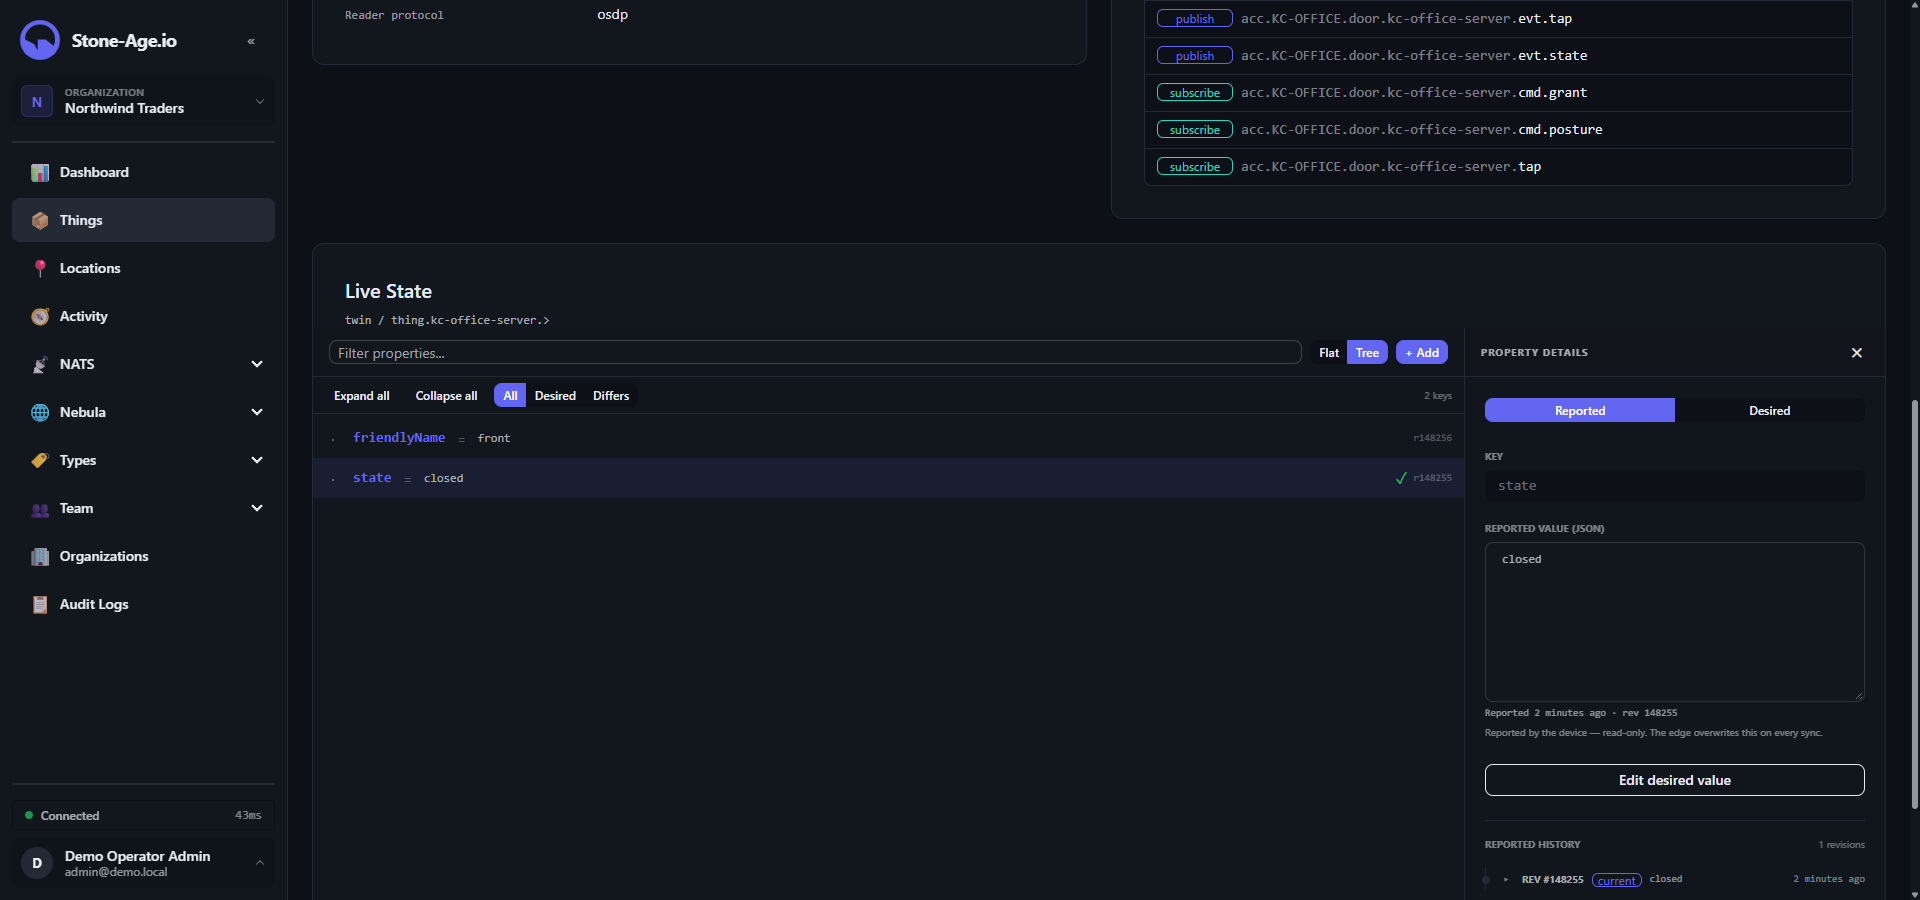
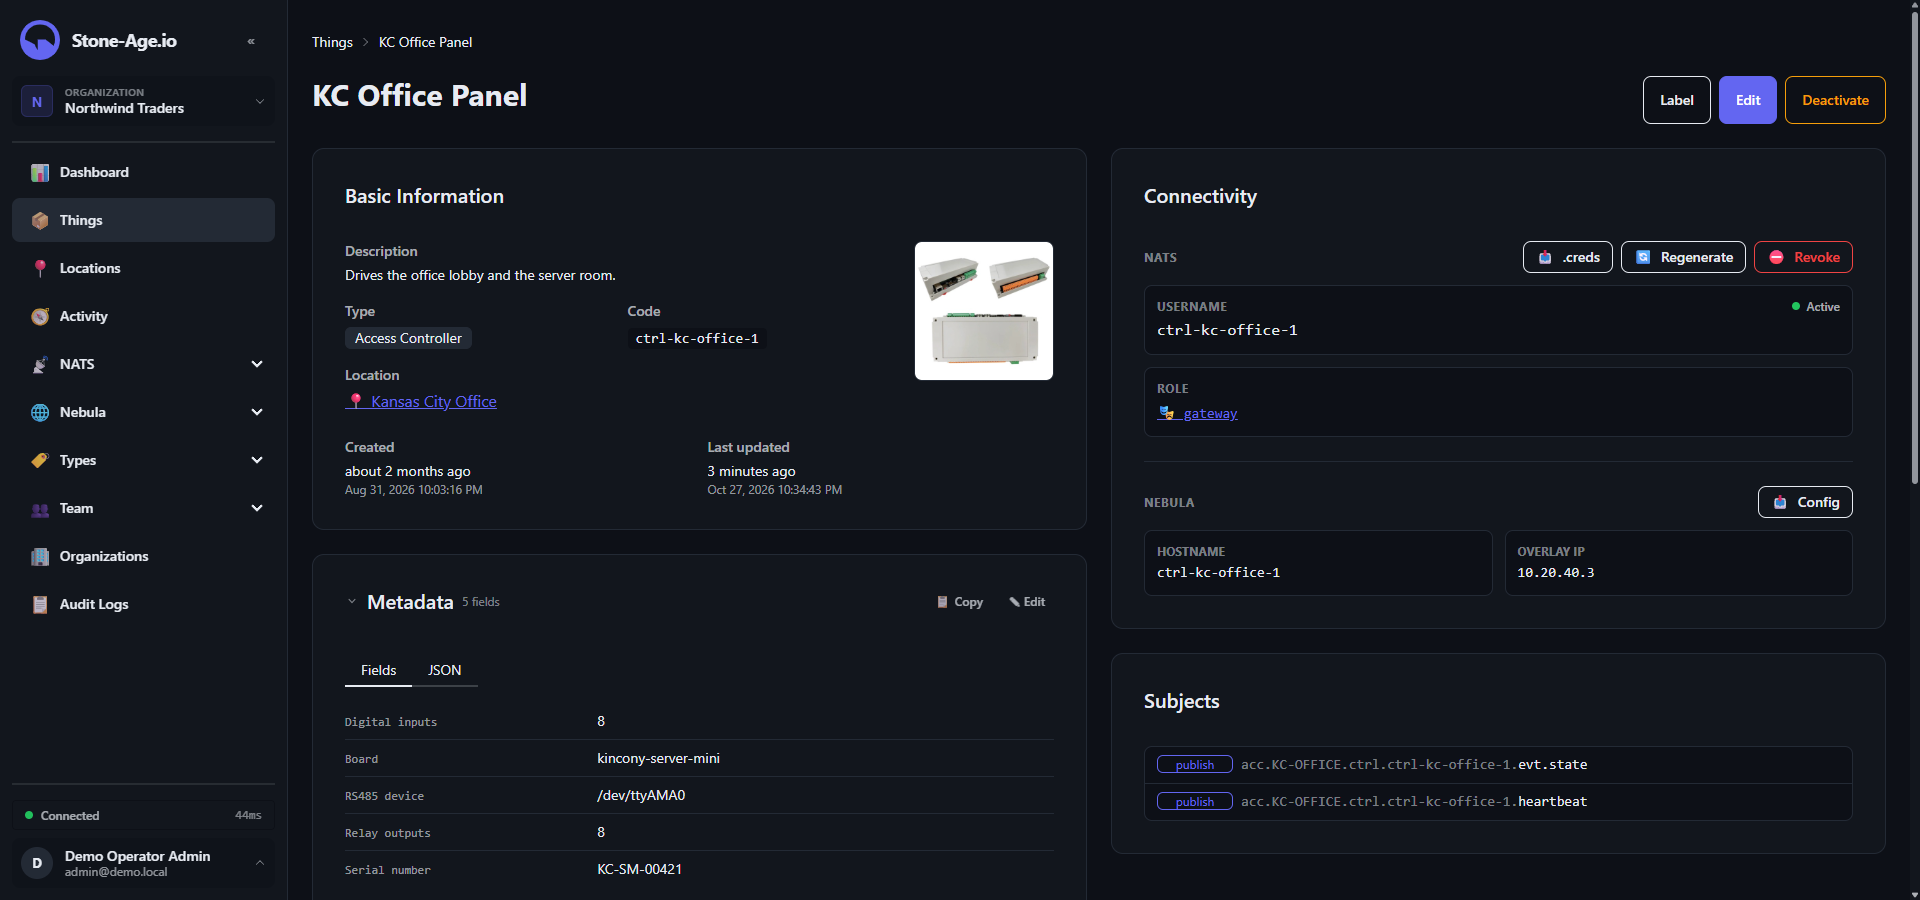
stone-age post: show an access controller's full record
Replaces the door screenshot, which showed two twin keys, with the KC Office
Panel's page: inventory, NATS user, Nebula host and subjects in one view,
which is what the post's title claims. Alt text and caption follow.

diff --git a/content/blog/2026-10-19-stone-age-platform.md b/content/blog/2026-10-19-stone-age-platform.md
@@ -47,9 +47,9 @@ curl -X POST http://localhost:8090/api/org/things \
 
 One request, one transaction, and that box exists as an inventory entry, a login, a messaging identity and a mesh node at once. There is no second registry to reconcile against.
 
-![A door's thing page in the demo console: the subjects it publishes and subscribes to, and its live state read from KV](/images/blog/stone-age-thing-page.png)
+![An access controller's thing page in the demo console: its inventory details, its NATS user and role, its Nebula host and overlay IP, and the subjects it publishes](/images/blog/stone-age-thing-page.png)
 
-*A door in the demo, one record: the subjects its type declares, and its live state straight from KV.*
+*One record in the demo: an access controller's inventory entry, its NATS user, its Nebula host on the overlay, and the subjects its type declares.*
 
 Most equipment can't hold an identity of its own and shouldn't have to. A camera, a door on a vendor's panel, a power meter: those are rows with `"mode":"none"` on both halves, inventory records whose data reaches the bus through whatever runs code nearby, usually the VMS, a site gateway, or a rule polling the vendor's API. The row is the same shape either way, so the day something can speak for itself you attach identities to the record you already have.
 
